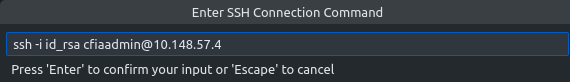
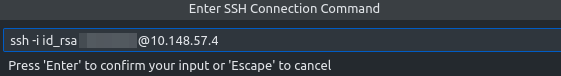
Added more info on creating apps

diff --git a/docs/build.md b/docs/build.md
@@ -18,4 +18,47 @@ Therefore, the requirements for building an application on FoodPort are:
 
 ## Creating a VM image
 
+To create a new VM image:
+
+1. In the Microsoft Azure [FoodPort Portal](https://portal.azure.com/#home), navigate to [Virtual machines](https://portal.azure.com/#view/HubsExtension/BrowseResource/resourceType/Microsoft.Compute%2FVirtualMachines).
+2. In the top-left corner of the window, click 'Create' and choose 'Azure virtual machine'.
+3. Under the Basics tab, change the following:
+      - Subscription: `CFDC-FoodPort-Sub`
+      - Resource group: `CFDC-FoodPort-Batch-rg`
+      - Virtual machine name: `name_of_new_image`
+      - Region: `(Canada) Canada Central`
+      - Image: `Ubuntu Server 20.04 LTS - x64 Gen2`
+      - Security type: `Standard`
+        - (The image must be selected first)
+      - Size: `Standard_D4ds_v5`
+      - Authentication type: Password
+        - Username: `[username]`
+        - Password: `password`
+      - Public inbound ports: `None`
+4. Under the Networking tab, change the following:
+      - Virtual network: `CFDC-FoodPort-vnet`
+      - Subnet: `CFDC-FoodPort-BatchNodes-snet (10.148.57.32/27)`
+      - Public IP: `None`
+5. Under the Tags tab, change the following:
+      - Name: `TechContact`
+      - Value: `email_address_of_contact`
+6. Under the Review + create tab, click 'Create' and wait for the VM image to be created.
+
+## Developing in VMs
+
+To add software and other dependencies to your new VM image, the process is as follows:
+
+1. Spin up a new VM based upon the previously created VM image.
+2. Connect to the new VM.
+3. Install software and other dependencies.
+4. Capture the VM as a new version of the VM image.
+
+### Spinning up a new VM
+
+### Connecting to a new VM
+
+### Installing software and other dependencies in a new VM
+
+### Capturing a new VM as a VM image version
+
 ## Creating a user interface

diff --git a/docs/connect.md b/docs/connect.md
@@ -2,14 +2,14 @@
 
 To develop applications for [FoodPort](http://10.148.57.4/), you need to be able to connect to the CFIA network **and** have a way of SSHing into FoodPort using an SSH client (e.g. [PuTTY](https://putty.org/) or [Visual Studio Code](https://code.visualstudio.com/) with an [SSH extension](https://code.visualstudio.com/docs/remote/ssh)).
 
-You'll also need an RSA private key file which can be obtained by contacting Adam Koziol ([adam.koziol@inspection.gc.ca](mailto:adam.koziol@inspection.gc.ca)).
+You'll also need a username and an RSA private key file which can be obtained by contacting Adam Koziol ([adam.koziol@inspection.gc.ca](mailto:adam.koziol@inspection.gc.ca)).
 
 ## Using a terminal
 
 With a private key file `id_rsa`:
 
 ```bash
-ssh -i id_rsa cfiaadmin@10.148.57.4
+ssh -i id_rsa [username]@10.148.57.4
 ```
 
 ## Using VS Code's Remote - SSH extension
@@ -24,7 +24,7 @@ ssh -i id_rsa cfiaadmin@10.148.57.4
 
     ![Add new remote connection in VS Code](assets/images/vs-code-remote-explorer-add.png)
 
-4. Enter the SSH connection command (e.g. `ssh -i id_rsa cfiaadmin@10.148.57.4`), remembering to specify the absolute path to `id_rsa` on your system.
+4. Enter the SSH connection command (e.g. `ssh -i id_rsa [username]@10.148.57.4`), remembering to specify the absolute path to `id_rsa` on your system.
 
     ![Enter SSH connection command in VS Code](assets/images/vs-code-enter-ssh-cmd.png)
 
